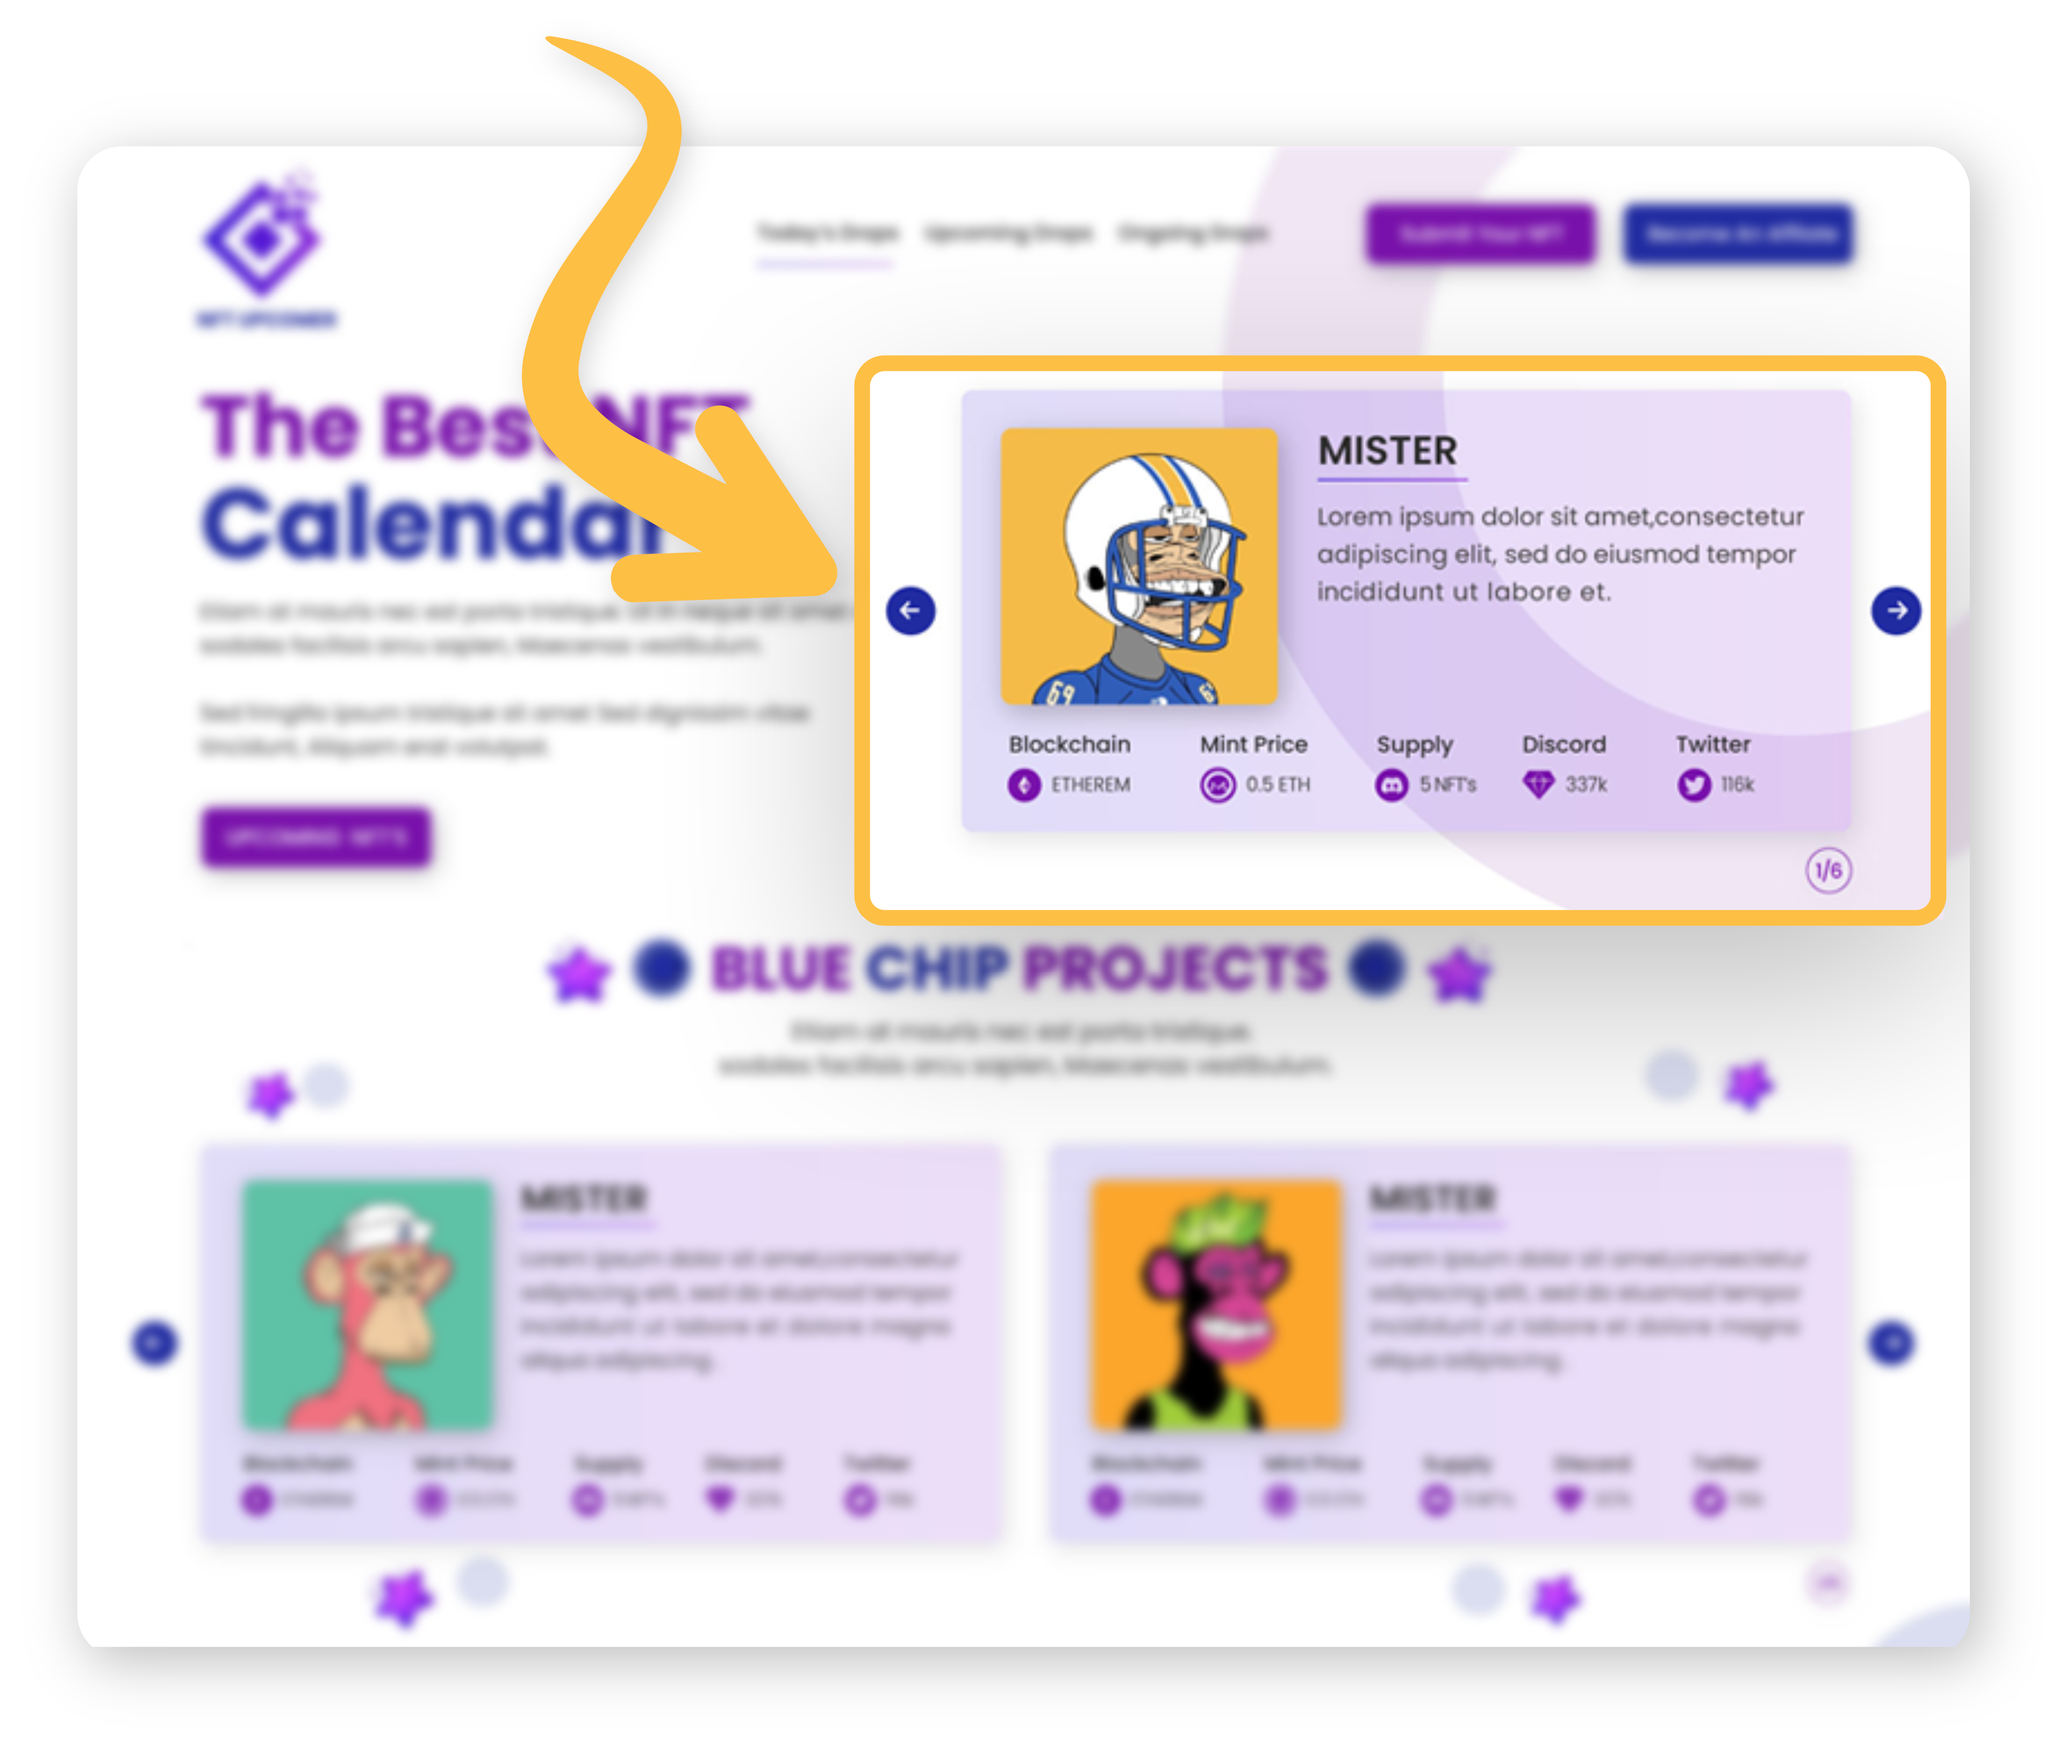
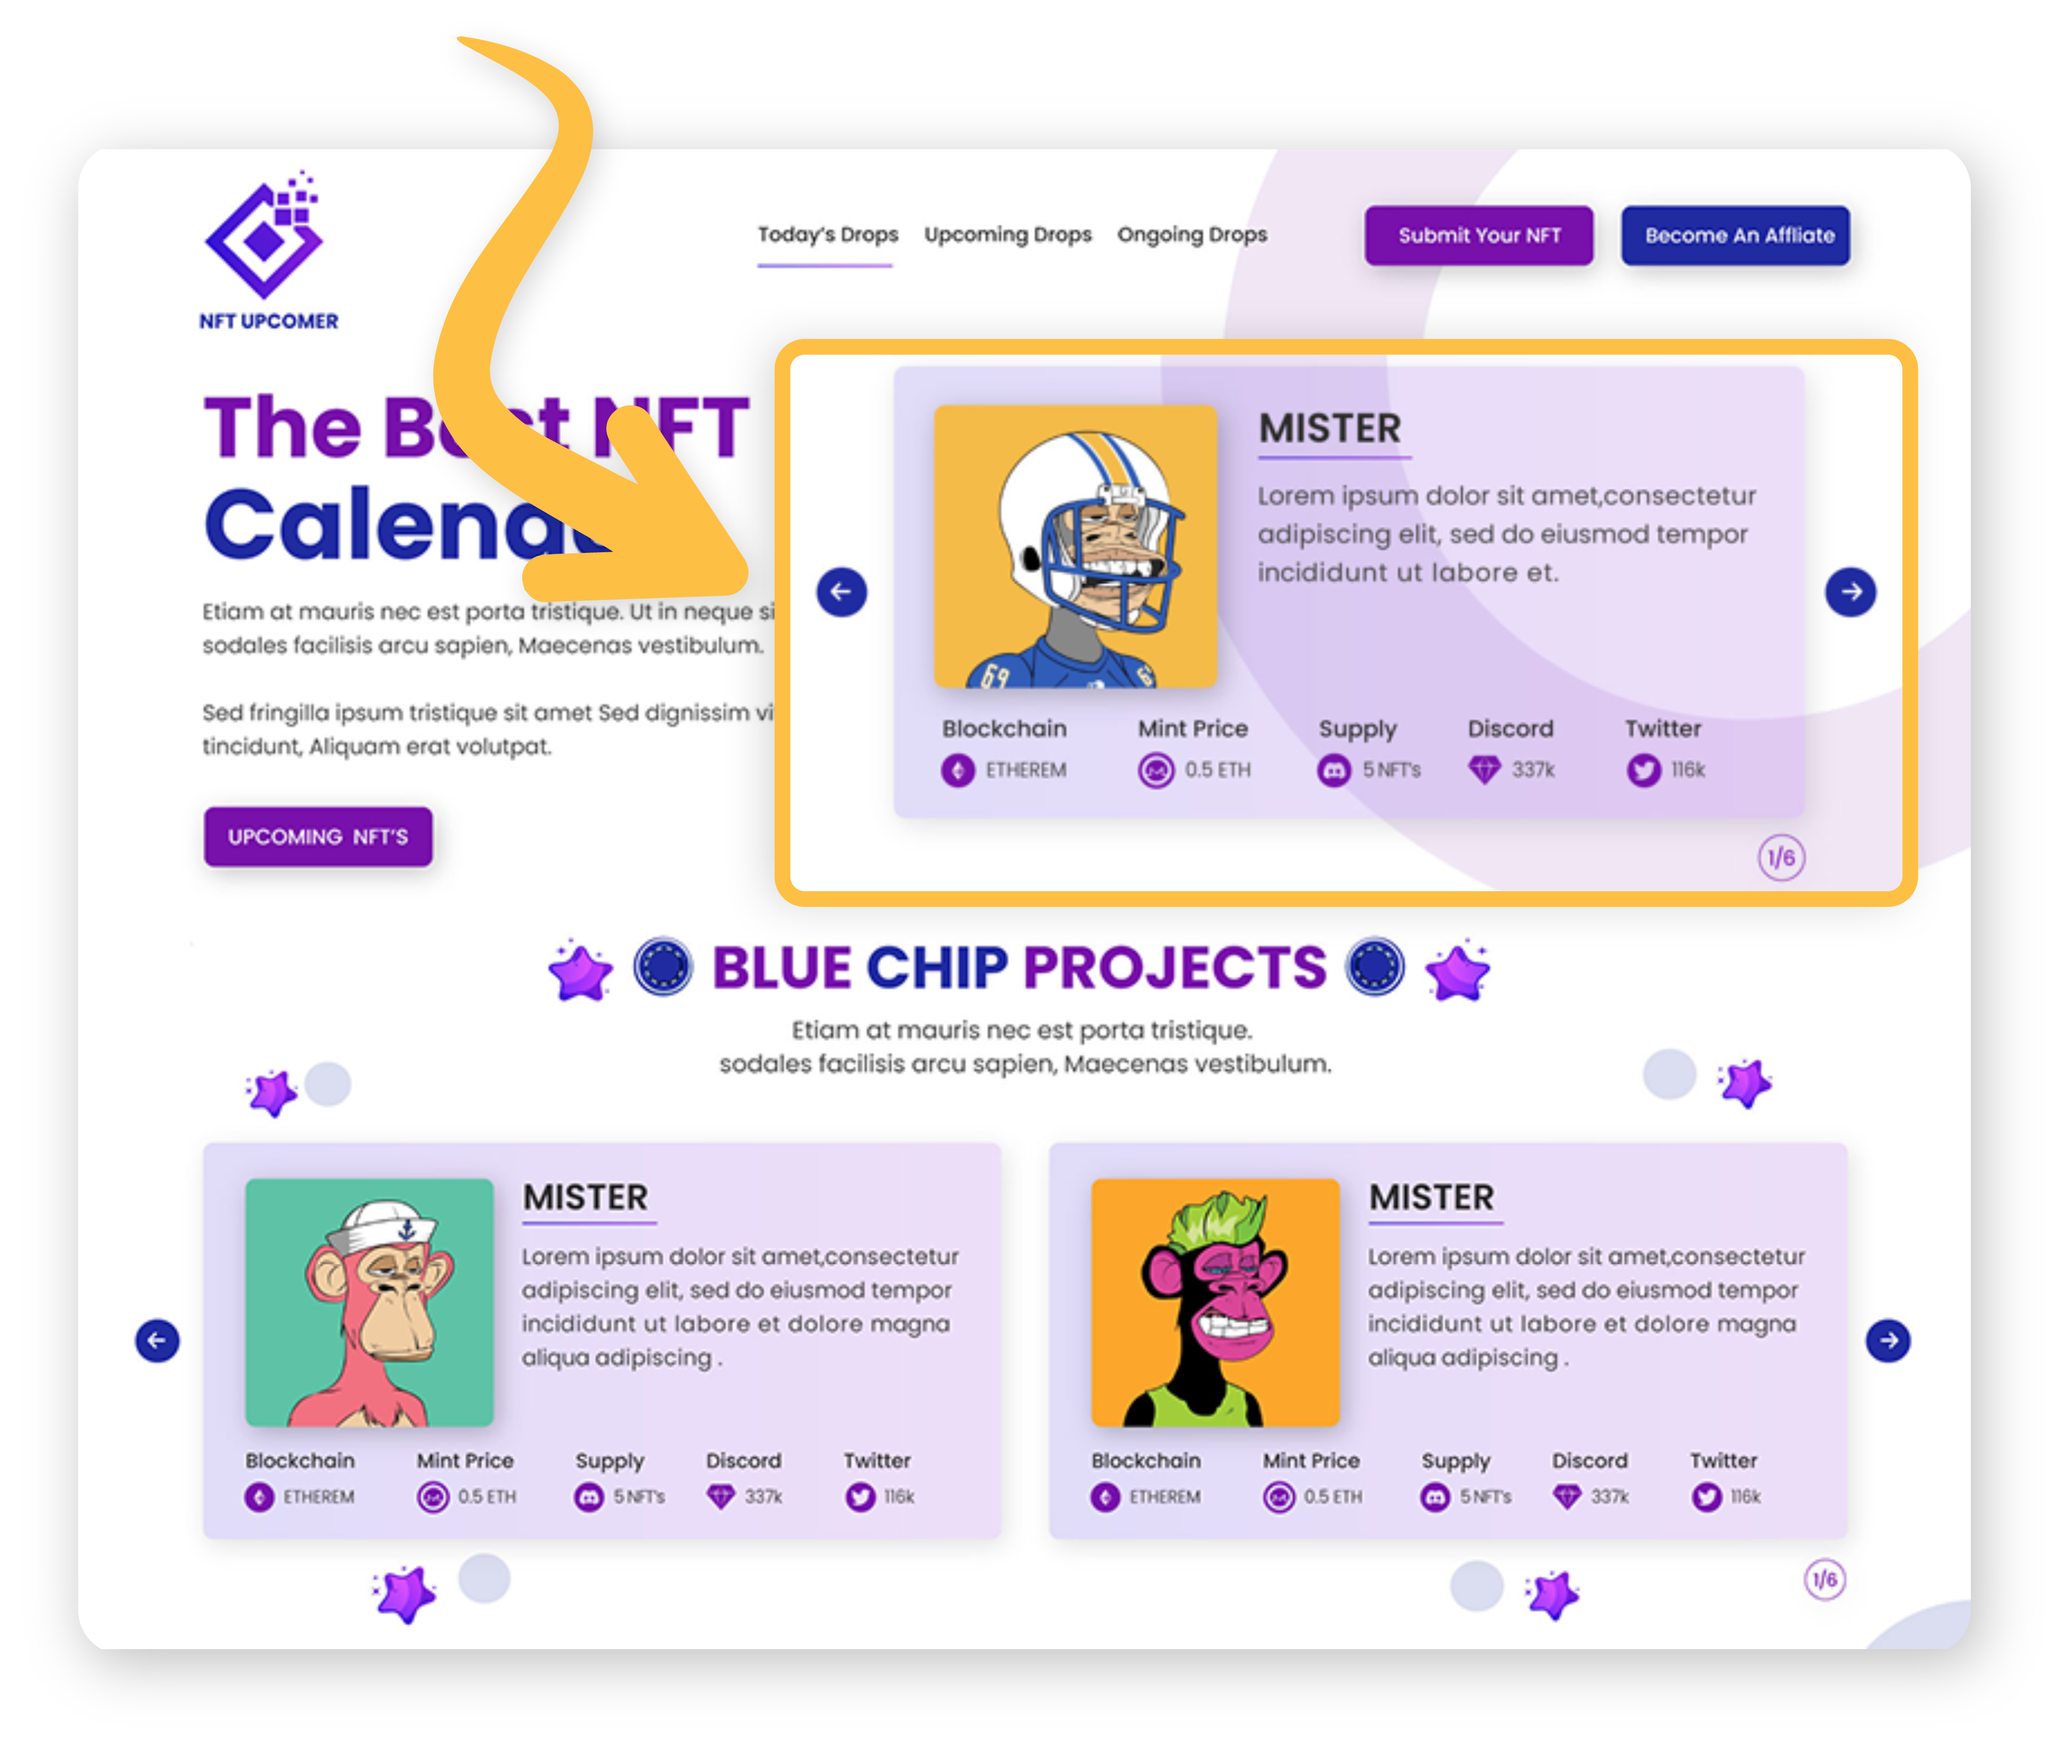
update image for homepage plan

diff --git a/db/seeds.rb b/db/seeds.rb
@@ -1,45 +1,47 @@
-plan_data = [
-              { name: 'Free Plan', day_price: '', week_price: '', plan_type: 'free', description_list: [
-                "Get listed on minting and upcoming page",
-                "Standard review listing up to 48 hours",
-                "Standard support queue 9am - 6pm CET",
-                "Only 1 out of 10 projects pass through moderation due to high demand",
-              ], image: File.open("#{Rails.root}/app/assets/images/Free-Plan.png"), daily_text: '7 day listing', weekly_text: ''},
-              { name: 'HomePage Plan', day_price: 12.3, week_price: 23.7, plan_type: 'home', description_list: [
-                "Best visibility possible, position on top of the homepage",
-                "Express listing - less than 2 hours",
-                "Premium support queue available 24/7",
-                "Guaranteed publication",
-              ], image: File.open("#{Rails.root}/app/assets/images/Homapage-Plan.png"), daily_text: 'Daily listing', weekly_text: 'Weekly listing (50% off)'  },
-              { name: 'Blue Chip Project Plan', day_price: 11.1, week_price: 32.3, plan_type: 'bluechip', description_list: [
-                "Premium listing, position on every page",
-                "Express listing - less than 2 hours",
-                "Premium support queue available 24/7",
-                "Guaranteed publication",
-              ], image: File.open("#{Rails.root}/app/assets/images/BlueChip-Plan.png"), daily_text: 'Daily listing', weekly_text: 'Weekly listing (50% off)' },
-              { name: 'Featured Nft Drops', day_price: 31.5, week_price: 43.8, plan_type: 'featured', description_list: [
-                "Featured listing, highlighted position",
-                "Express listing - less than 2 hours",
-                "Premium support queue available 24/7",
-                "Guaranteed publication",
-              ], image: File.open("#{Rails.root}/app/assets/images/BestOption-Plan.png", daily_text: '', weekly_text: 'Lifetime listing') },
-              { name: 'SIDEBAR NFT PLAN', day_price: 52.7, week_price: 74.9, plan_type: 'sidebar', description_list: [
-                "Sidebar listing, side position",
-                "Express listing - less than 2 hours",
-                "Premium support queue available 24/7",
-                "Guaranteed publication",
-              ], image: File.open("#{Rails.root}/app/assets/images/Sidebar-Plan.png"), daily_text: 'Daily listing', weekly_text: 'Weekly listing (60% off)' }
-            ]
-plan_data.each do |plan|
-  create_plan = Plan.find_or_create_by(
-    name: plan[:name],
-    day_price: plan[:day_price],
-    week_price: plan[:week_price],
-    description_list: plan[:description_list],
-    plan_type: plan[:plan_type],
-    daily_text: plan[:daily_text],
-    weekly_text: plan[:weekly_text]
-  )
-  create_plan.image.attach(io: File.open(plan[:image]), filename: "1_#{Time.current.to_i}", content_type: 'image/png')
-end
-AdminUser.create!(email: 'admin@example.com', password: 'password', password_confirmation: 'password')
+# plan_data = [
+#               { name: 'Free Plan', day_price: '', week_price: '', plan_type: 'free', description_list: [
+#                 "Get listed on minting and upcoming page",
+#                 "Standard review listing up to 48 hours",
+#                 "Standard support queue 9am - 6pm CET",
+#                 "Only 1 out of 10 projects pass through moderation due to high demand",
+#               ], image: File.open("#{Rails.root}/app/assets/images/Free-Plan.png"), daily_text: '7 day listing', weekly_text: ''},
+#               { name: 'HomePage Plan', day_price: 12.3, week_price: 23.7, plan_type: 'home', description_list: [
+#                 "Best visibility possible, position on top of the homepage",
+#                 "Express listing - less than 2 hours",
+#                 "Premium support queue available 24/7",
+#                 "Guaranteed publication",
+#               ], image: File.open("#{Rails.root}/app/assets/images/Homapage-Plan.png"), daily_text: 'Daily listing', weekly_text: 'Weekly listing (50% off)'  },
+#               { name: 'Blue Chip Project Plan', day_price: 11.1, week_price: 32.3, plan_type: 'bluechip', description_list: [
+#                 "Premium listing, position on every page",
+#                 "Express listing - less than 2 hours",
+#                 "Premium support queue available 24/7",
+#                 "Guaranteed publication",
+#               ], image: File.open("#{Rails.root}/app/assets/images/BlueChip-Plan.png"), daily_text: 'Daily listing', weekly_text: 'Weekly listing (50% off)' },
+#               { name: 'Featured Nft Drops', day_price: 31.5, week_price: 43.8, plan_type: 'featured', description_list: [
+#                 "Featured listing, highlighted position",
+#                 "Express listing - less than 2 hours",
+#                 "Premium support queue available 24/7",
+#                 "Guaranteed publication",
+#               ], image: File.open("#{Rails.root}/app/assets/images/BestOption-Plan.png", daily_text: '', weekly_text: 'Lifetime listing') },
+#               { name: 'SIDEBAR NFT PLAN', day_price: 52.7, week_price: 74.9, plan_type: 'sidebar', description_list: [
+#                 "Sidebar listing, side position",
+#                 "Express listing - less than 2 hours",
+#                 "Premium support queue available 24/7",
+#                 "Guaranteed publication",
+#               ], image: File.open("#{Rails.root}/app/assets/images/Sidebar-Plan.png"), daily_text: 'Daily listing', weekly_text: 'Weekly listing (60% off)' }
+#             ]
+# plan_data.each do |plan|
+#   create_plan = Plan.find_or_create_by(
+#     name: plan[:name],
+#     day_price: plan[:day_price],
+#     week_price: plan[:week_price],
+#     description_list: plan[:description_list],
+#     plan_type: plan[:plan_type],
+#     daily_text: plan[:daily_text],
+#     weekly_text: plan[:weekly_text]
+#   )
+#   create_plan.image.attach(io: File.open(plan[:image]), filename: "1_#{Time.current.to_i}", content_type: 'image/png')
+# end
+plan = Plan.second
+plan.image.attach(io: File.open("#{Rails.root}/app/assets/images/Homapage-Plan.png"), filename: "1_#{Time.current.to_i}", content_type: 'image/png')
+# AdminUser.create!(email: 'admin@example.com', password: 'password', password_confirmation: 'password')
